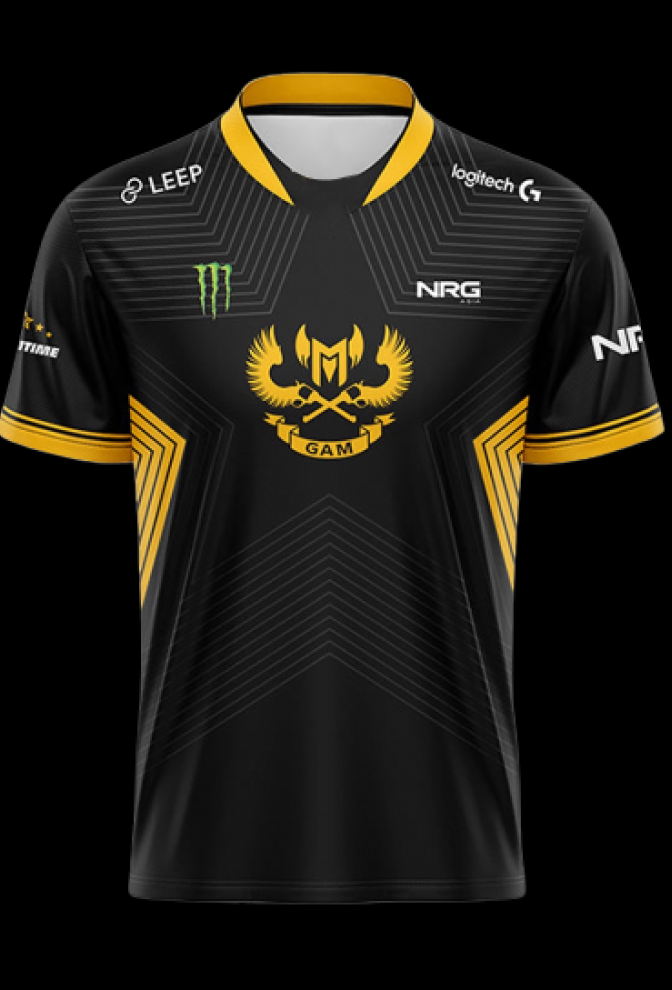
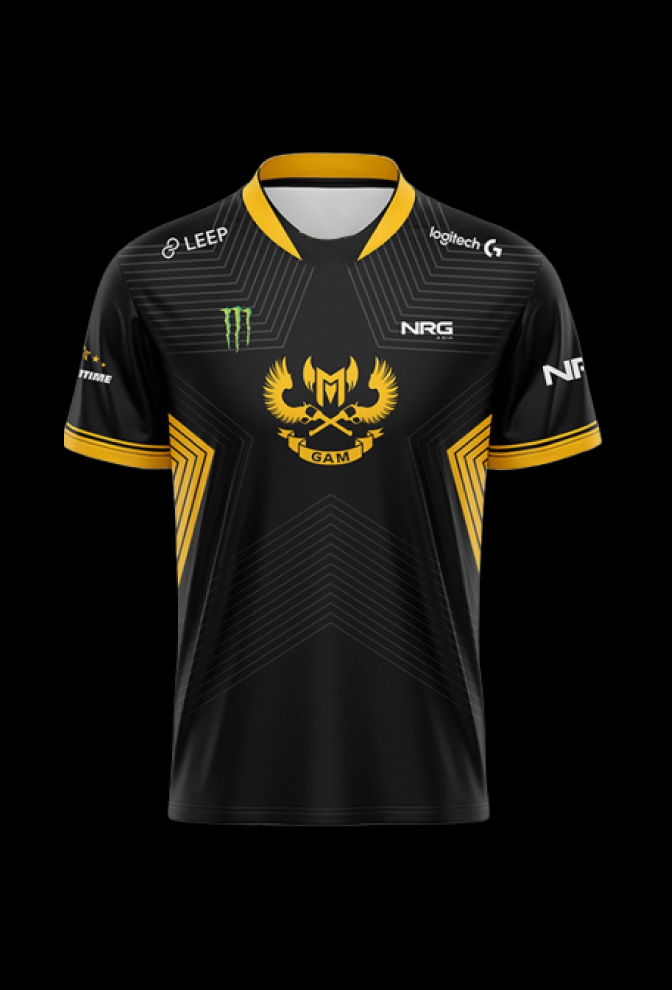
q

Changed region(s): [[0.0, 0.0606, 1.0, 0.9091], [0.4375, 0.8182, 0.5312, 0.9091], [0.3125, 0.8788, 0.375, 0.9091]]

diff --git a/templates/Index.html b/templates/Index.html
@@ -46,7 +46,7 @@
         </article>
         <article class="product">
           <img
-            src="https://media.coolmate.me/cdn-cgi/image/width=672,height=990,quality=85,format=auto/uploads/October2023/trang.jpg"
+            src="https://raw.githubusercontent.com/SitdePykee/BTL-Web-Programming/main/db/images/aodaugam.jpg"
             alt=""
           />
           Long bào <br />
